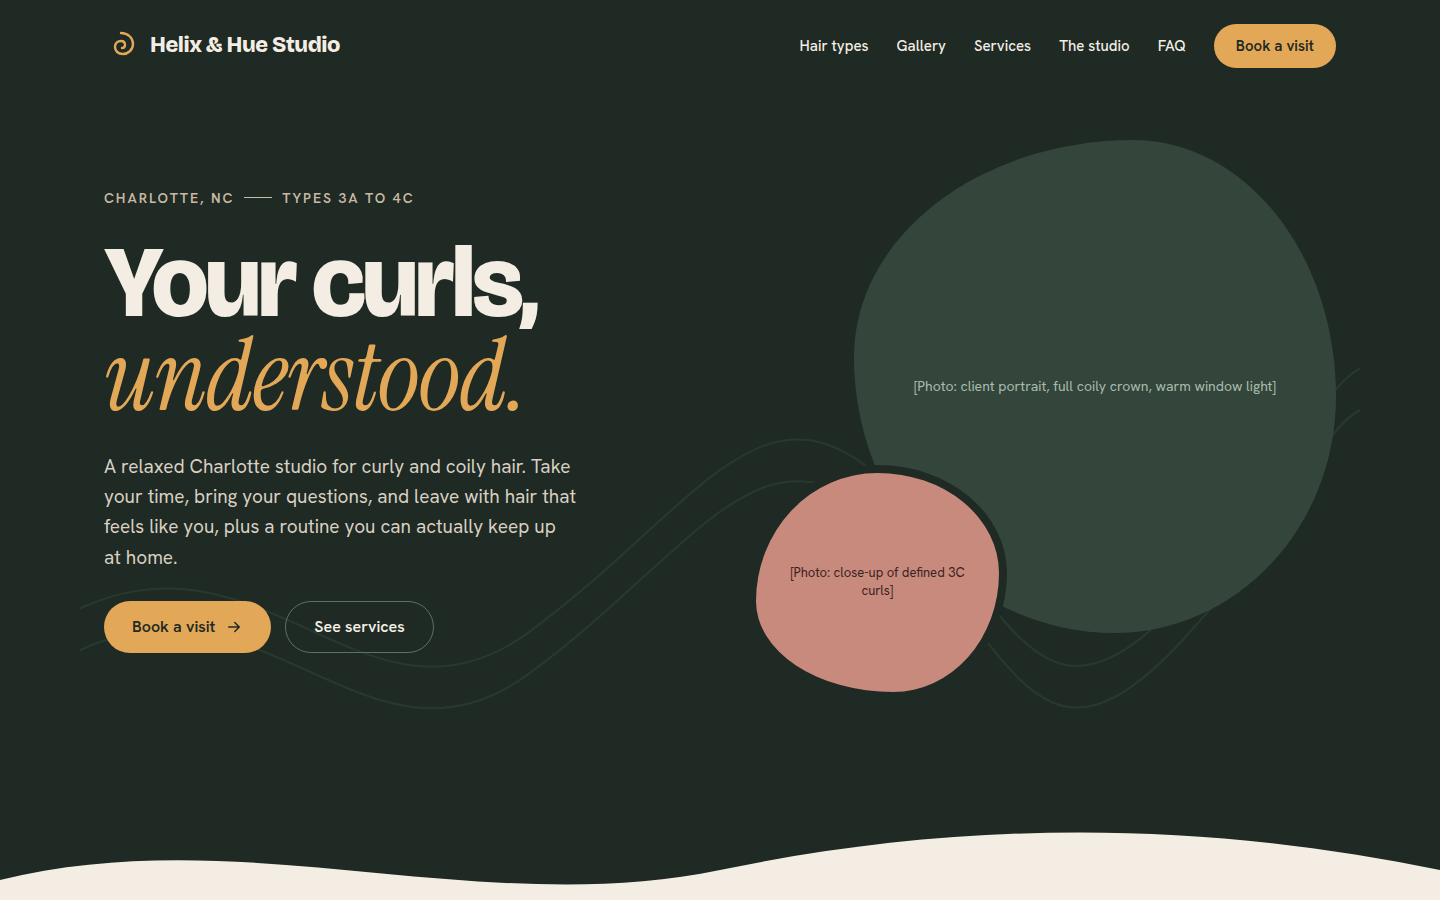
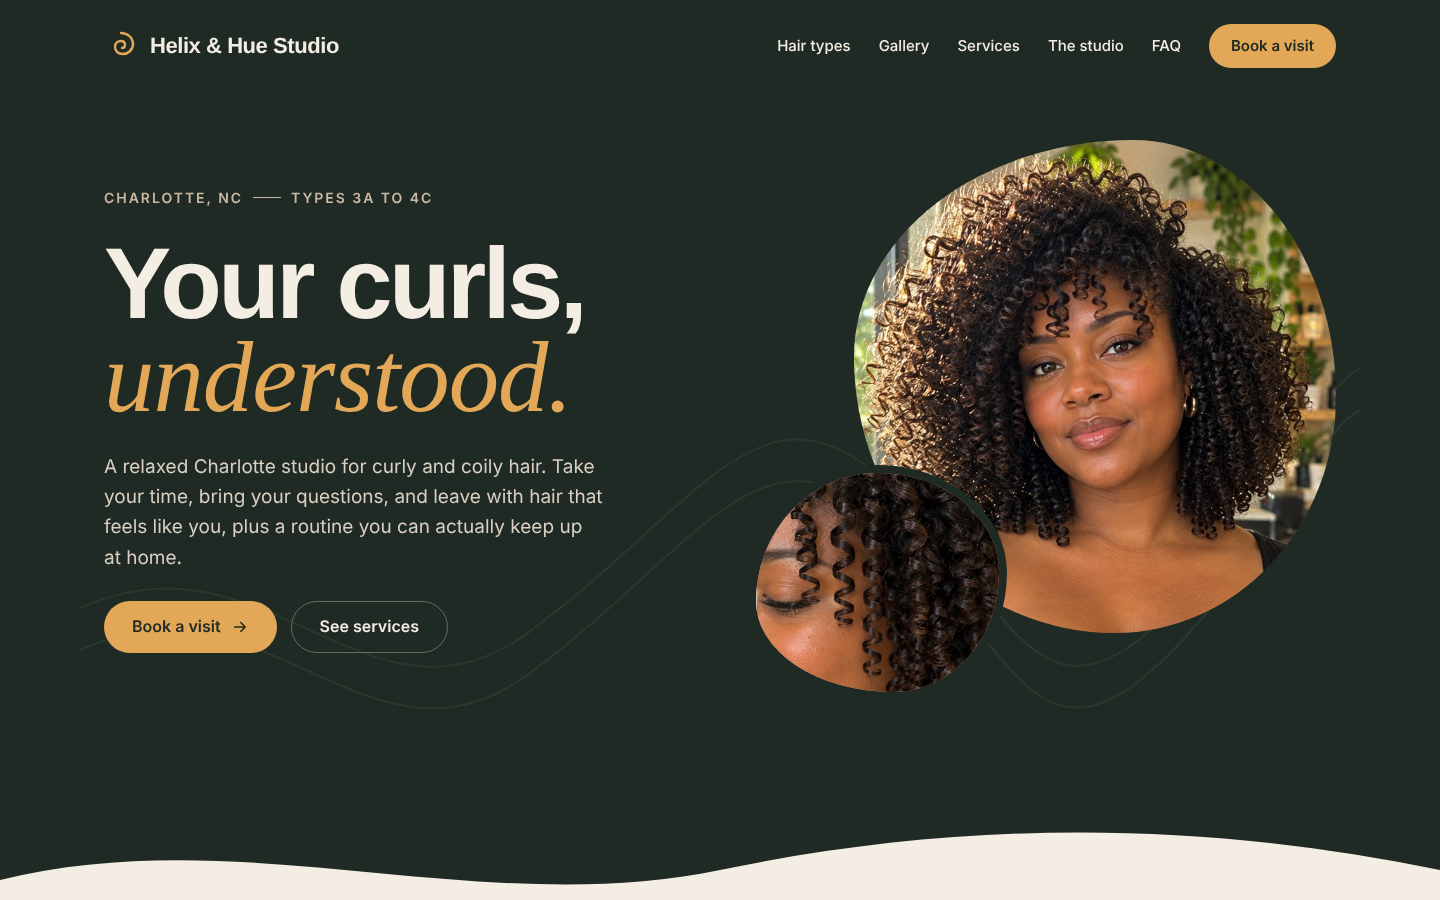
Update case study: test in progress, AI photo disclosure, new screenshots

diff --git a/README.md b/README.md
@@ -30,7 +30,7 @@ This is a **problem hypothesis**. I did not run interviews for this concept, so 
 | 03 Structure | Sitemap and the user flow from bio link to booking |
 | 04 Wireframe | Three hero options, then low-fi desktop and phone pages |
 | 05 Design | High-fidelity desktop and phone designs, then built the site |
-| 06 Test | Wrote a usability test plan (not yet run) |
+| 06 Test | Usability test with 5 participants, in progress |
 
 ## 01 Discover
 
@@ -100,6 +100,14 @@ Warm and relaxed: deep forest green, soft linen and honey tones, flowing curves 
 
 ![Gallery filtered to 4C](docs/screenshots/gallery-filter.png)
 
+**Photos and sample content**
+
+The studio is fictional, so there was no real portfolio of work to show. The photos are AI-generated placeholders, which a real stylist's work would replace. The site says so in its footer.
+
+I checked every gallery photo against the curl type it's filed under, and that check mattered. The first 4A photo I generated showed long, glossy spiral ringlets. I have 4A hair, and my hair has never looked like that. If a 4A visitor filtered for her pattern and saw that photo, she would get the same message Instagram gives her: this stylist's work isn't for hair like mine. I regenerated it until it matched real 4A texture, and reworked the 4B and 4C photos for the same reason, since the generator kept defaulting to defined, glossy curls. The takeaway for a real build: photo accuracy is a core part of this design, and it needs to be checked by people with that hair type.
+
+For testing, I also replaced the price, time and policy placeholders with realistic sample content, so participants could complete every task.
+
 **Accessibility choices**
 
 - Semantic landmarks, a skip link, and visible focus styles
@@ -108,7 +116,7 @@ Warm and relaxed: deep forest green, soft linen and honey tones, flowing curves 
 - Every text color meets WCAG AA contrast (4.5:1 or better) against its background
 - Reduced motion respected
 
-## 06 Test plan (planned, not yet run)
+## 06 Usability test (in progress)
 
 A moderated, remote test of the phone design with **5 people with 3A to 4C hair** who book salon services at least twice a year. Measures: task success, time on task, and a 1 to 7 ease rating.
 
@@ -116,17 +124,20 @@ A moderated, remote test of the phone design with **5 people with 3A to 4C hair*
 | --- | --- | --- |
 | 1 | "In your own words, who is this stylist for?" | Mentions curly or coily hair and Charlotte within 10 seconds |
 | 2 | "Find work on hair like yours." | Uses the gallery filter without help |
+| 2+ | "If you liked one of these styles, what would you book to get it?" | Names a service with confidence |
 | 3 | "You're new. What would you book, and what will it cost?" | Picks the consultation and states its price and time |
 | 4 | "How should you show up to your appointment?" | Finds the prep answer in the FAQ |
 | 5 | "Book your first visit." | Taps Book a visit in under a minute |
 
-**What would change the design:** if 2 or more of 5 miss the gallery filter, move it higher. If prices surprise people, add a "starting at" line near the top.
+**What would change the design:** if 2 or more of 5 miss the gallery filter, move it higher. If prices surprise people, add a "starting at" line near the top. If 2 or more can't tell which service creates a style in the gallery, link gallery photos to services.
+
+A practice run before the real sessions raised that last question, so I added task 2+ to test it with real people.
 
 ## What I'd do next
 
-- Run the usability test and replace the assumptions with findings
+- Finish the usability test and replace the assumptions with findings
 - Interview a working stylist about her booking and DM workload
-- Swap placeholder photos for licensed images or a real stylist's work
+- Replace the AI-generated photos with a real stylist's work
 
 ## Built with
 
@@ -136,6 +147,8 @@ HTML, CSS and a small amount of vanilla JavaScript. No frameworks or build step.
 index.html        page markup
 css/styles.css    all styles
 js/gallery.js     gallery filter
+js/booking.js     Book a visit confirmation (concept only)
+images/           AI-generated placeholder photos
 docs/screenshots  images used in this README
 ```
 
@@ -143,4 +156,4 @@ To run it locally, open `index.html` in a browser.
 
 ---
 
-*Helix & Hue Studio is a fictional business created for this concept. Bracketed text such as [PRICE] marks content a real client would supply.*
+*Helix & Hue Studio is a fictional business created for this concept. Photos are AI-generated placeholders, and prices and policies are sample content. Bracketed text marks content a real client would supply.*
